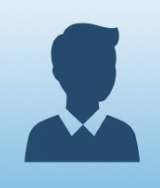
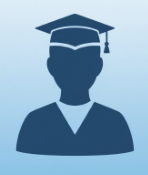
task done

Changed region(s): [[0.1081, 0.0571, 0.9189, 0.9143]]

diff --git a/src/Contracts/dashboard.jsx b/src/Contracts/dashboard.jsx
@@ -42,8 +42,15 @@ import {
   ArrowDownward as ArrowDownwardIcon,
   UnfoldMore as UnfoldMoreIcon,
 } from "@mui/icons-material";
-import "bootstrap/dist/css/bootstrap.min.css";
+import CheckCircleIcon from "@mui/icons-material/CheckCircle";
+import CancelIcon from "@mui/icons-material/Cancel";
+import ReplayIcon from '@mui/icons-material/Replay';
+import AddCircleOutlineIcon from '@mui/icons-material/AddCircleOutline';
+import ErrorIcon from "@mui/icons-material/Error";
+import InfoIcon from "@mui/icons-material/Info";
+import PauseCircleFilledIcon from "@mui/icons-material/PauseCircleFilled";
 import MoreVertIcon from "@mui/icons-material/MoreVert";
+import "bootstrap/dist/css/bootstrap.min.css";
 import { capitalize } from "../utils/helpers";
 import { formatDate } from "../utils/dateFormatter";
 
@@ -206,6 +213,43 @@ const ContractDashboard = () => {
         return "#A78BFA";
       default:
         return "#2e7d32";
+    }
+  };
+
+  const getStatusConfig = (status) => {
+    const normalized = status?.toLowerCase();
+
+    switch (normalized) {
+      case "active":
+        return {
+          color: "#235DFF",
+          icon: <AddCircleOutlineIcon sx={{ fontSize: 18, mr: 0.5 }} />,
+        };
+      case "completed":
+        return {
+          color: "#38BC5C",
+          icon: <CheckCircleIcon sx={{ fontSize: 18, mr: 0.5 }} />,
+        };
+      case "disputed":
+        return {
+          color: "orange",
+          icon: <PauseCircleFilledIcon sx={{ fontSize: 18, mr: 0.5 }} />,
+        };
+      case "cancelled":
+        return {
+          color: "#F31616",
+          icon: <CancelIcon sx={{ fontSize: 18, mr: 0.5 }} />,
+        };
+      case "refunded":
+        return {
+          color: "#A78BFA",
+          icon: <ReplayIcon sx={{ fontSize: 18, mr: 0.5 }} />,
+        };
+      default:
+        return {
+          color: "#2e7d32",
+          icon: null,
+        };
     }
   };
 
@@ -812,22 +856,30 @@ const ContractDashboard = () => {
                           <TableCell
                             sx={{
                               fontSize: "16px",
-                              fontWeight: 600,
+                              fontWeight: 400,
                               height: "48px",
                               textAlign: "center",
                             }}
                           >
-                            <span
-                              style={{
-                                color: getStatusStyle(row.status),
-                                border: `1px solid ${getStatusStyle(row.status)}`,
-                                padding: "2px 8px",
-                                borderRadius: "6px",
-                                textTransform: "capitalize",
-                              }}
-                            >
-                              {row.status}
-                            </span>
+                            {(() => {
+                              const { color, icon } = getStatusConfig(row.status);
+
+                              return (
+                                <span
+                                  style={{
+                                    color: color,
+                                    display: "inline-flex",
+                                    alignItems: "center",
+                                    padding: "2px 8px",
+                                    borderRadius: "6px",
+                                    textTransform: "capitalize",
+                                  }}
+                                >
+                                  {icon}
+                                  {row.status}
+                                </span>
+                              );
+                            })()}
                           </TableCell>
 
                           <TableCell

diff --git a/src/Transaction/dashboard.jsx b/src/Transaction/dashboard.jsx
@@ -32,6 +32,8 @@ import {
 } from "@mui/material";
 import CheckCircleIcon from "@mui/icons-material/CheckCircle";
 import CancelIcon from "@mui/icons-material/Cancel";
+import ReplayIcon from '@mui/icons-material/Replay';
+import AddCircleOutlineIcon from '@mui/icons-material/AddCircleOutline';
 import ErrorIcon from "@mui/icons-material/Error";
 import InfoIcon from "@mui/icons-material/Info";
 import PauseCircleFilledIcon from "@mui/icons-material/PauseCircleFilled";
@@ -158,7 +160,7 @@ const TransactionDashboard = () => {
     updatedAt: formatDate(request.updatedAt),
   }));
 
-  // console.log("PAYMENT+++++REQUEST^^^$$$$$$$$$", paymentRequests);
+  console.log("PAYMENT+++++REQUEST^^^$$$$$$$$$", paymentRequests);
 
   const handleCopy = async (text) => {
     if (text === undefined || text === null || text === "N/A") return;

diff --git a/src/PendingUsers/UserDetail.jsx b/src/PendingUsers/UserDetail.jsx
@@ -84,7 +84,7 @@ const UserDetail = () => {
     clearUserData,
   } = useAdminStore();
 
-  console.log("role:", role);
+  console.log("role%%%%%%%%%%%%%%%%%%%:", role);
 
   const [activeTab, setActiveTab] = useState(0);
   const [selectedDocument, setSelectedDocument] = useState(null);
